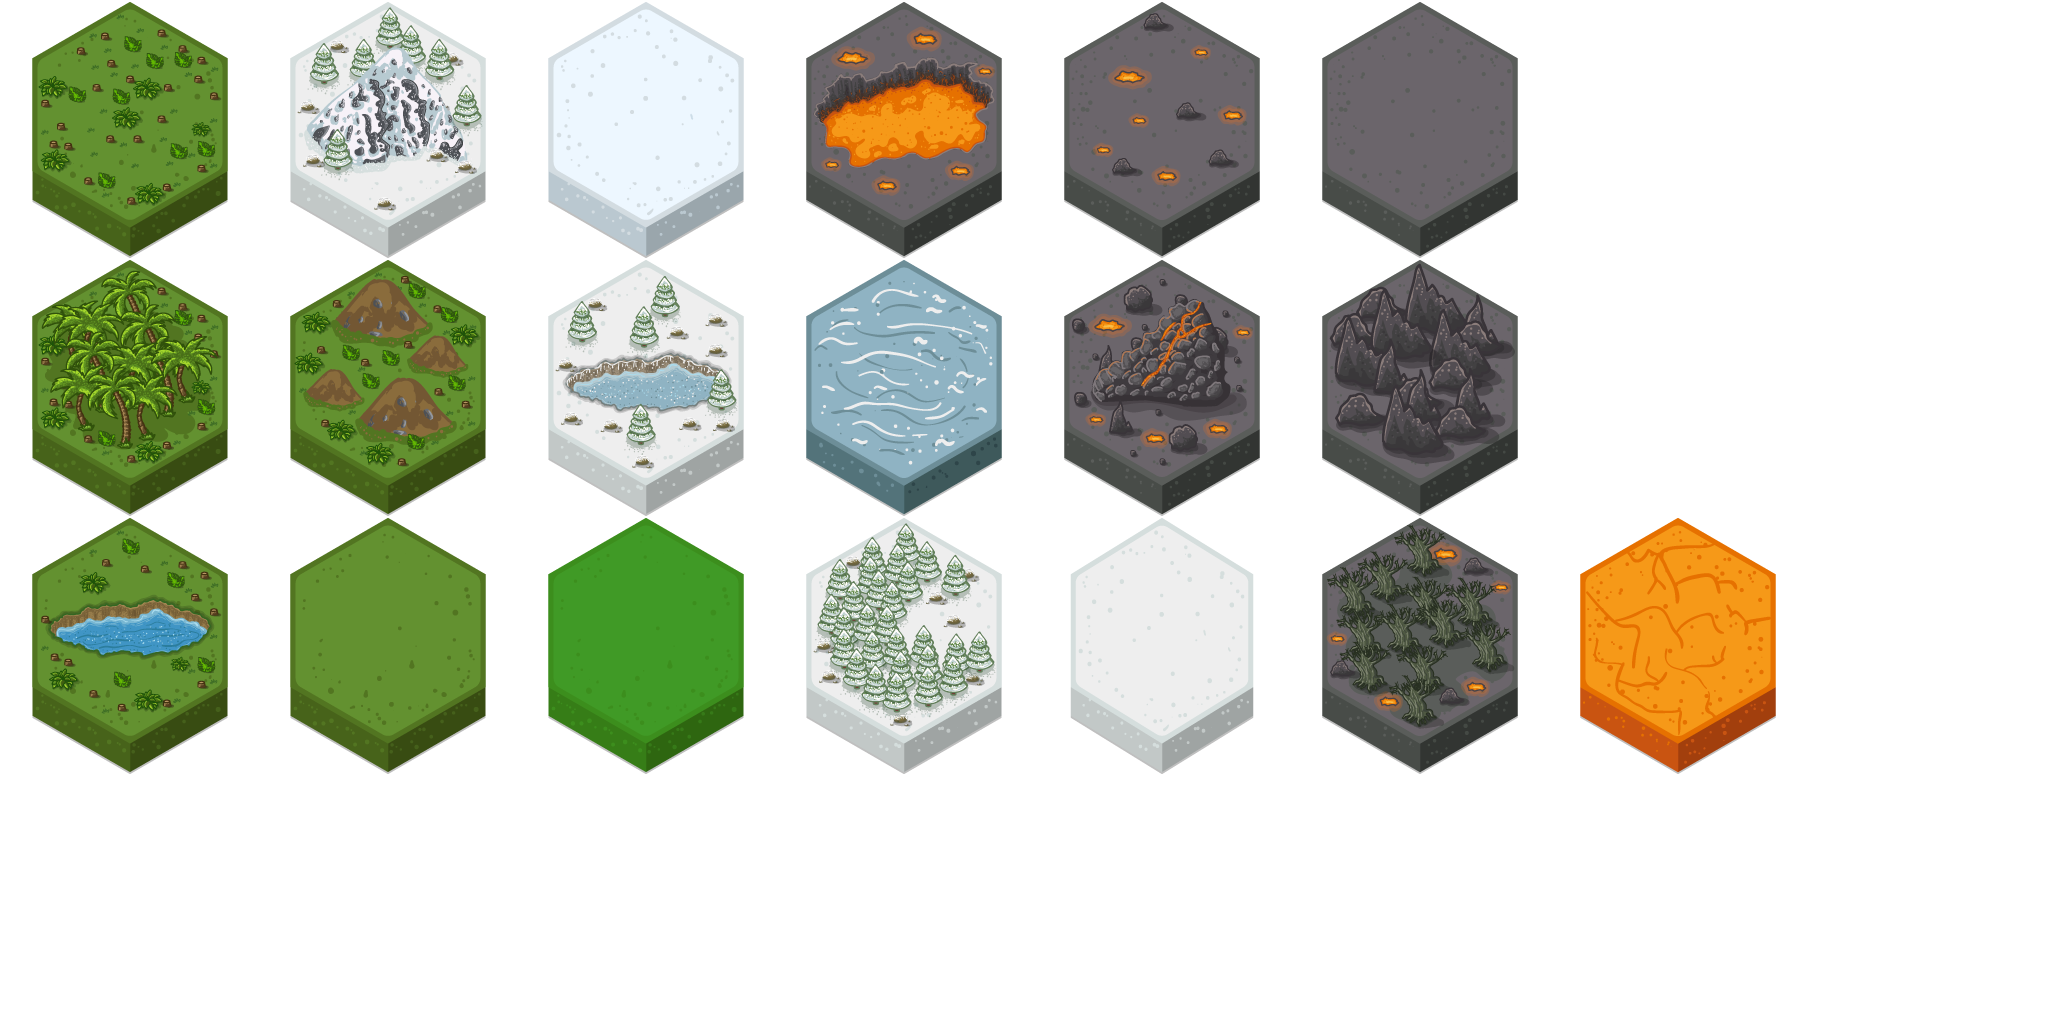
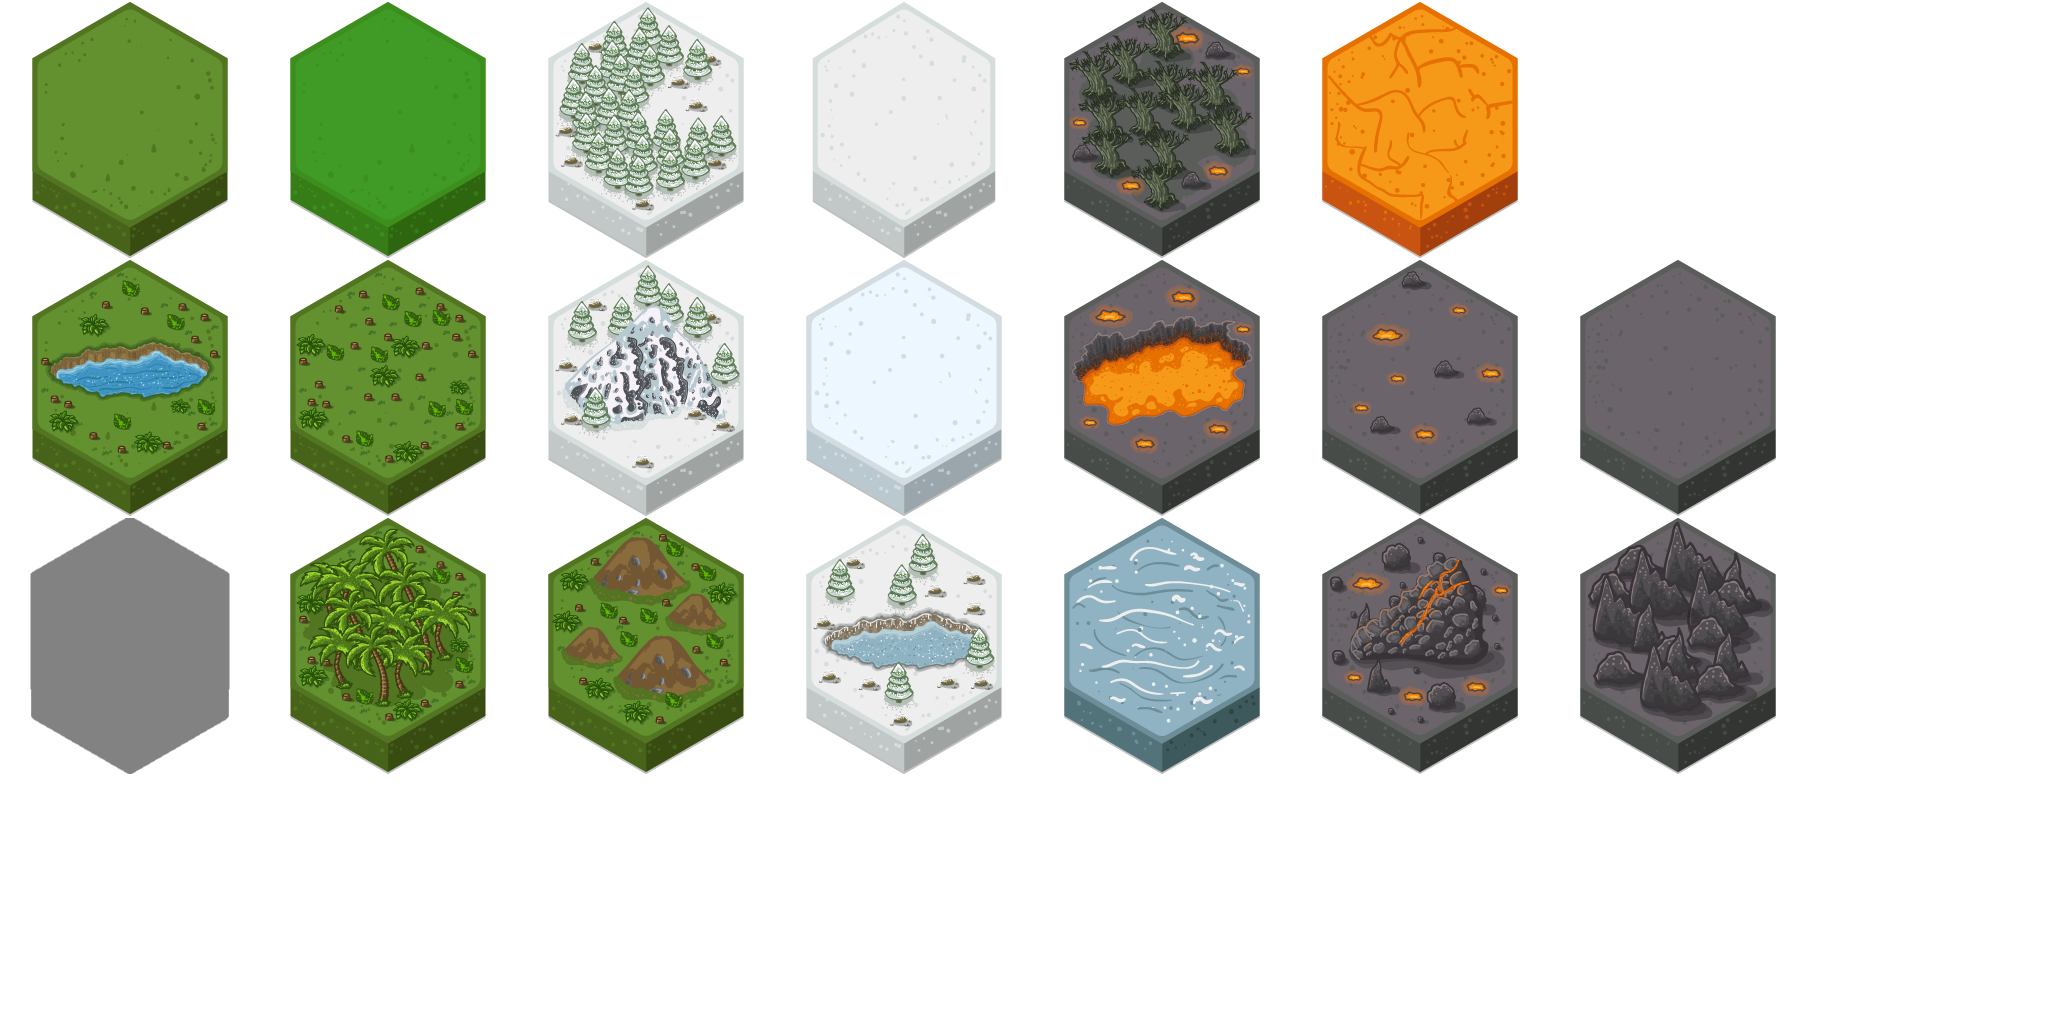
disabledFloor is added

Changed region(s): [[0.0, 0.0, 0.875, 0.75], [0.0, 0.25, 0.25, 0.4688]]

diff --git a/WarofAges/core/src/com/uysals/game/warofages/screens/mainpage/MainPageController.java b/WarofAges/core/src/com/uysals/game/warofages/screens/mainpage/MainPageController.java
@@ -40,11 +40,11 @@ public class MainPageController implements InputProcessor {
 
         TextureAtlas floorAtlas = assetManager.get(AssetDescriptors.FLOORS);
 
-        floors.add(new Floor(GameConfig.WORLD_CENTER_X - 200f, GameConfig.WORLD_CENTER_Y, floorAtlas.findRegion("green1")));
-        floors.add(new Floor(GameConfig.WORLD_CENTER_X, GameConfig.WORLD_CENTER_Y, floorAtlas.findRegion("green2")));
-        floors.add(new Floor(GameConfig.WORLD_CENTER_X + 200f, GameConfig.WORLD_CENTER_Y, floorAtlas.findRegion("green3")));
-        floors.add(new Floor(GameConfig.WORLD_CENTER_X - 100f, GameConfig.WORLD_CENTER_Y - 180f, floorAtlas.findRegion("green4")));
-        floors.add(new Floor(GameConfig.WORLD_CENTER_X + 100f, GameConfig.WORLD_CENTER_Y - 180f, floorAtlas.findRegion("green5")));
+        floors.add(new Floor(GameConfig.WORLD_CENTER_X - 200f, GameConfig.WORLD_CENTER_Y, false, floorAtlas.findRegion("green1")));
+        floors.add(new Floor(GameConfig.WORLD_CENTER_X, GameConfig.WORLD_CENTER_Y, false, floorAtlas.findRegion("green2")));
+        floors.add(new Floor(GameConfig.WORLD_CENTER_X + 200f,  GameConfig.WORLD_CENTER_Y,false, floorAtlas.findRegion("green3")));
+        floors.add(new Floor(GameConfig.WORLD_CENTER_X - 100f,  GameConfig.WORLD_CENTER_Y - 180f,false, floorAtlas.findRegion("green4")));
+        floors.add(new Floor(GameConfig.WORLD_CENTER_X + 100f, GameConfig.WORLD_CENTER_Y - 180f,true, floorAtlas.findRegion("green5")));
 
         Gdx.input.setInputProcessor(this);
 

diff --git a/WarofAges/core/src/com/uysals/game/warofages/objects/Floor.java b/WarofAges/core/src/com/uysals/game/warofages/objects/Floor.java
@@ -2,19 +2,27 @@ package com.uysals.game.warofages.objects;
 
 import com.badlogic.gdx.graphics.g2d.SpriteBatch;
 import com.badlogic.gdx.graphics.g2d.TextureRegion;
+import com.uysals.game.warofages.GameConfig;
 
 public class Floor {
     public float xCoor;
     public float yCoor;
+    public boolean isDisabled;
     public TextureRegion region;
 
-    public Floor(float xCoor, float yCoor, TextureRegion region) {
+    public Floor(float xCoor, float yCoor, boolean isDisabled, TextureRegion region) {
         this.xCoor = xCoor;
         this.yCoor = yCoor;
+        this.isDisabled = isDisabled;
         this.region = region;
     }
 
     public void draw(SpriteBatch batch) {
-        batch.draw(region, xCoor - 128f, yCoor - 128f);
+        if(this.isDisabled){
+            batch.draw(region, xCoor - 128f, yCoor - 128f);
+            batch.draw(GameConfig.disabledFloor, xCoor - 128f, yCoor - 128f);
+        } else {
+            batch.draw(region, xCoor - 128f, yCoor - 128f);
+        }
     }
 }

diff --git a/WarofAges/core/src/com/uysals/game/warofages/screens/loading/LoadingScreen.java b/WarofAges/core/src/com/uysals/game/warofages/screens/loading/LoadingScreen.java
@@ -3,6 +3,7 @@ package com.uysals.game.warofages.screens.loading;
 import com.badlogic.gdx.ScreenAdapter;
 import com.badlogic.gdx.assets.AssetManager;
 import com.badlogic.gdx.graphics.OrthographicCamera;
+import com.badlogic.gdx.graphics.g2d.TextureAtlas;
 import com.badlogic.gdx.utils.viewport.FitViewport;
 import com.badlogic.gdx.utils.viewport.Viewport;
 import com.uysals.game.warofages.GameConfig;
@@ -71,6 +72,7 @@ public class LoadingScreen extends ScreenAdapter {
         progress = assetManager.getProgress();
 
         if(assetManager.update()) {
+            GameConfig.disabledFloor = assetManager.get(AssetDescriptors.FLOORS).findRegion("disabledFloor");
             game.newScreen(new LoginScreen(game));
         }
     }

diff --git a/WarofAges/core/src/com/uysals/game/warofages/GameConfig.java b/WarofAges/core/src/com/uysals/game/warofages/GameConfig.java
@@ -1,9 +1,13 @@
 package com.uysals.game.warofages;
 
+import com.badlogic.gdx.graphics.g2d.TextureRegion;
+
 public class GameConfig {
     public static final float WIDTH = 1920f; // pixels
     public static final float HEIGHT = 1080f; // pixels
 
     public static final float WORLD_CENTER_X = WIDTH / 2f; // world units
     public static final float WORLD_CENTER_Y = HEIGHT / 2f; // world units
+
+    public static TextureRegion disabledFloor = null;
 }

diff --git a/WarofAges/desktop/src/com/uysals/game/warofages/desktop/AssetPacker.java b/WarofAges/desktop/src/com/uysals/game/warofages/desktop/AssetPacker.java
@@ -24,7 +24,7 @@ public class AssetPacker {
         TexturePacker.process(settings,
                 RAW_ASSETS_PATH + "",
                 ASSETS_PATH + "/gameBasic",
-                "gui");
+                "floor");
 
 
 
